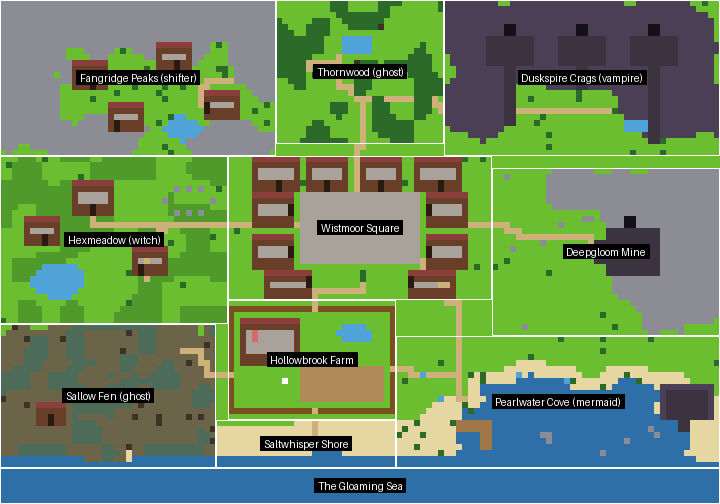
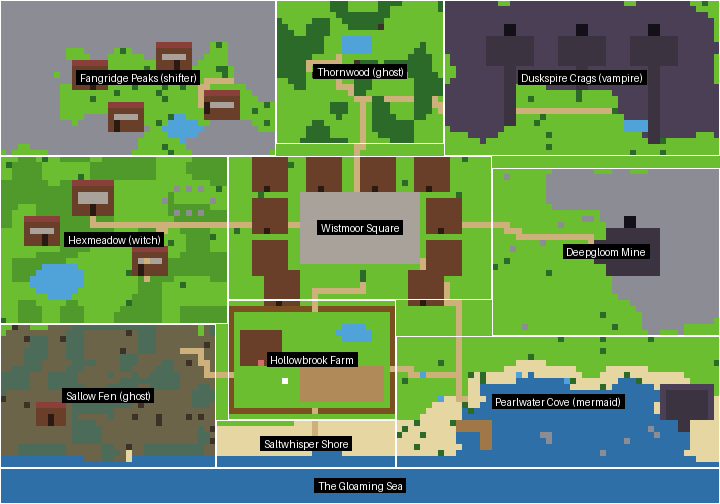
Farmhouse and shop sprites in the world over solid footprints; sleep at the farmhouse door
Claude-Session: https://claude.ai/code/session_01HGWnwzRxad1P2yUuQJXkVi

Changed region(s): [[0.3361, 0.2976, 0.6722, 0.744]]

diff --git a/tools/art/art.py b/tools/art/art.py
@@ -293,7 +293,10 @@ def cmd_prop_import(_args) -> None:
         ground.paste(Image.open(ROOT / props.pop(name)["design"]["file"]).convert("RGBA"), (column * 32, 0))
         print(f"{name} -> ground.png column {column}")
     ground.save(ROOT / "assets" / "tiles" / "ground.png")
-    images = {name: Image.open(ROOT / record["design"]["file"]).convert("RGBA") for name, record in props.items()}
+    images = {}
+    for name, record in props.items():
+        image = Image.open(ROOT / record["design"]["file"]).convert("RGBA")
+        images[name] = image.crop(image.getbbox()) if image.getbbox() else image
     atlas = Image.new("RGBA", (sum(im.width for im in images.values()), max(im.height for im in images.values())), (0, 0, 0, 0))
     regions, x = {}, 0
     for name, im in images.items():

diff --git a/tools/world_overview.py b/tools/world_overview.py
@@ -10,7 +10,7 @@ PX = 6
 COLOURS = {
     ".": "#6abe30", "s": "#b08a58", "~": "#4fa3d8", "#": "#7a5020", "=": "#cdb07a", "B": "#d46a6a", "P": "#ffffff",
     ",": "#e6d6a2", "w": "#2f6fa8", "^": "#8c8c94", "M": "#4a3f55", "c": "#3b3340", "m": "#14101a", "%": "#4c6b58",
-    ":": "#6b6448", "t": "#3d3128", "T": "#2c6a2a", '"': "#4f9a2a", "+": "#a8a29a", "H": "#6a3f2a", "D": "#a07848", "R": "#8a3f3a", "d": "#2a1a12", "b": "#d46a6a",
+    ":": "#6b6448", "t": "#3d3128", "T": "#2c6a2a", '"': "#4f9a2a", "+": "#a8a29a", "H": "#6a3f2a", "D": "#a07848", "X": "#6a3f2a", "F": "#6a3f2a", "S": "#6a3f2a", "R": "#8a3f3a", "d": "#2a1a12", "b": "#d46a6a",
 }
 
 
